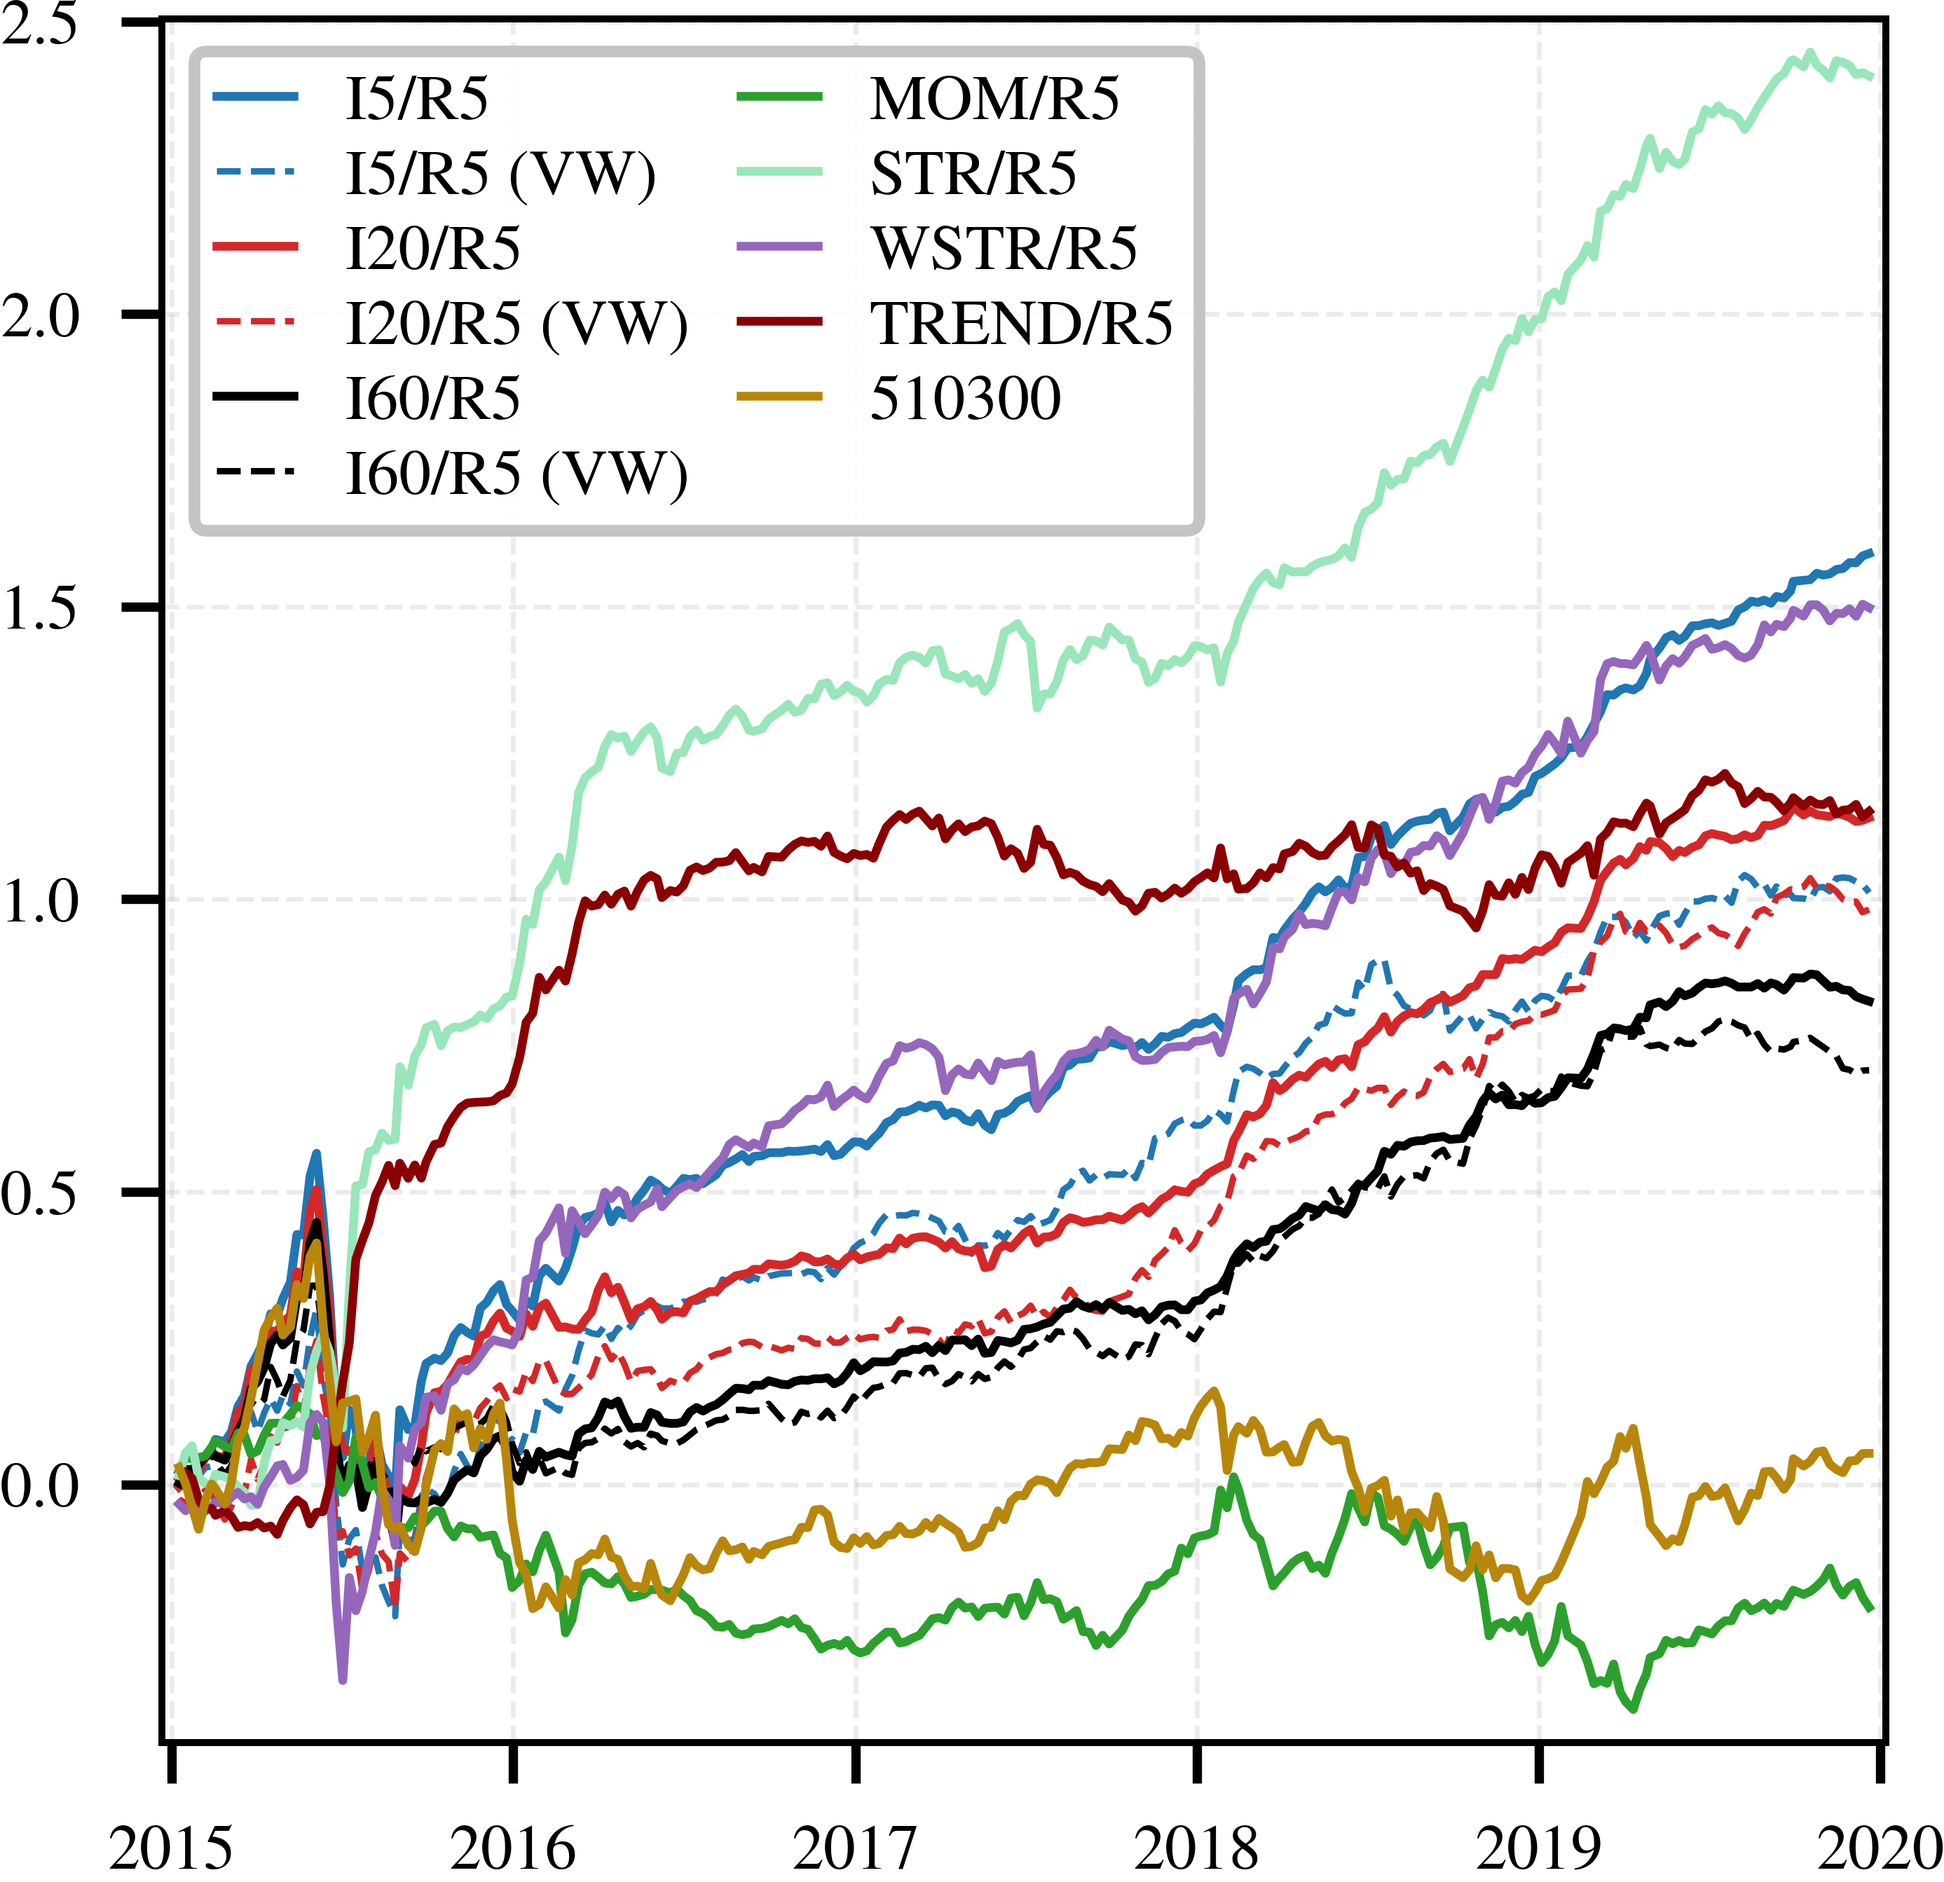
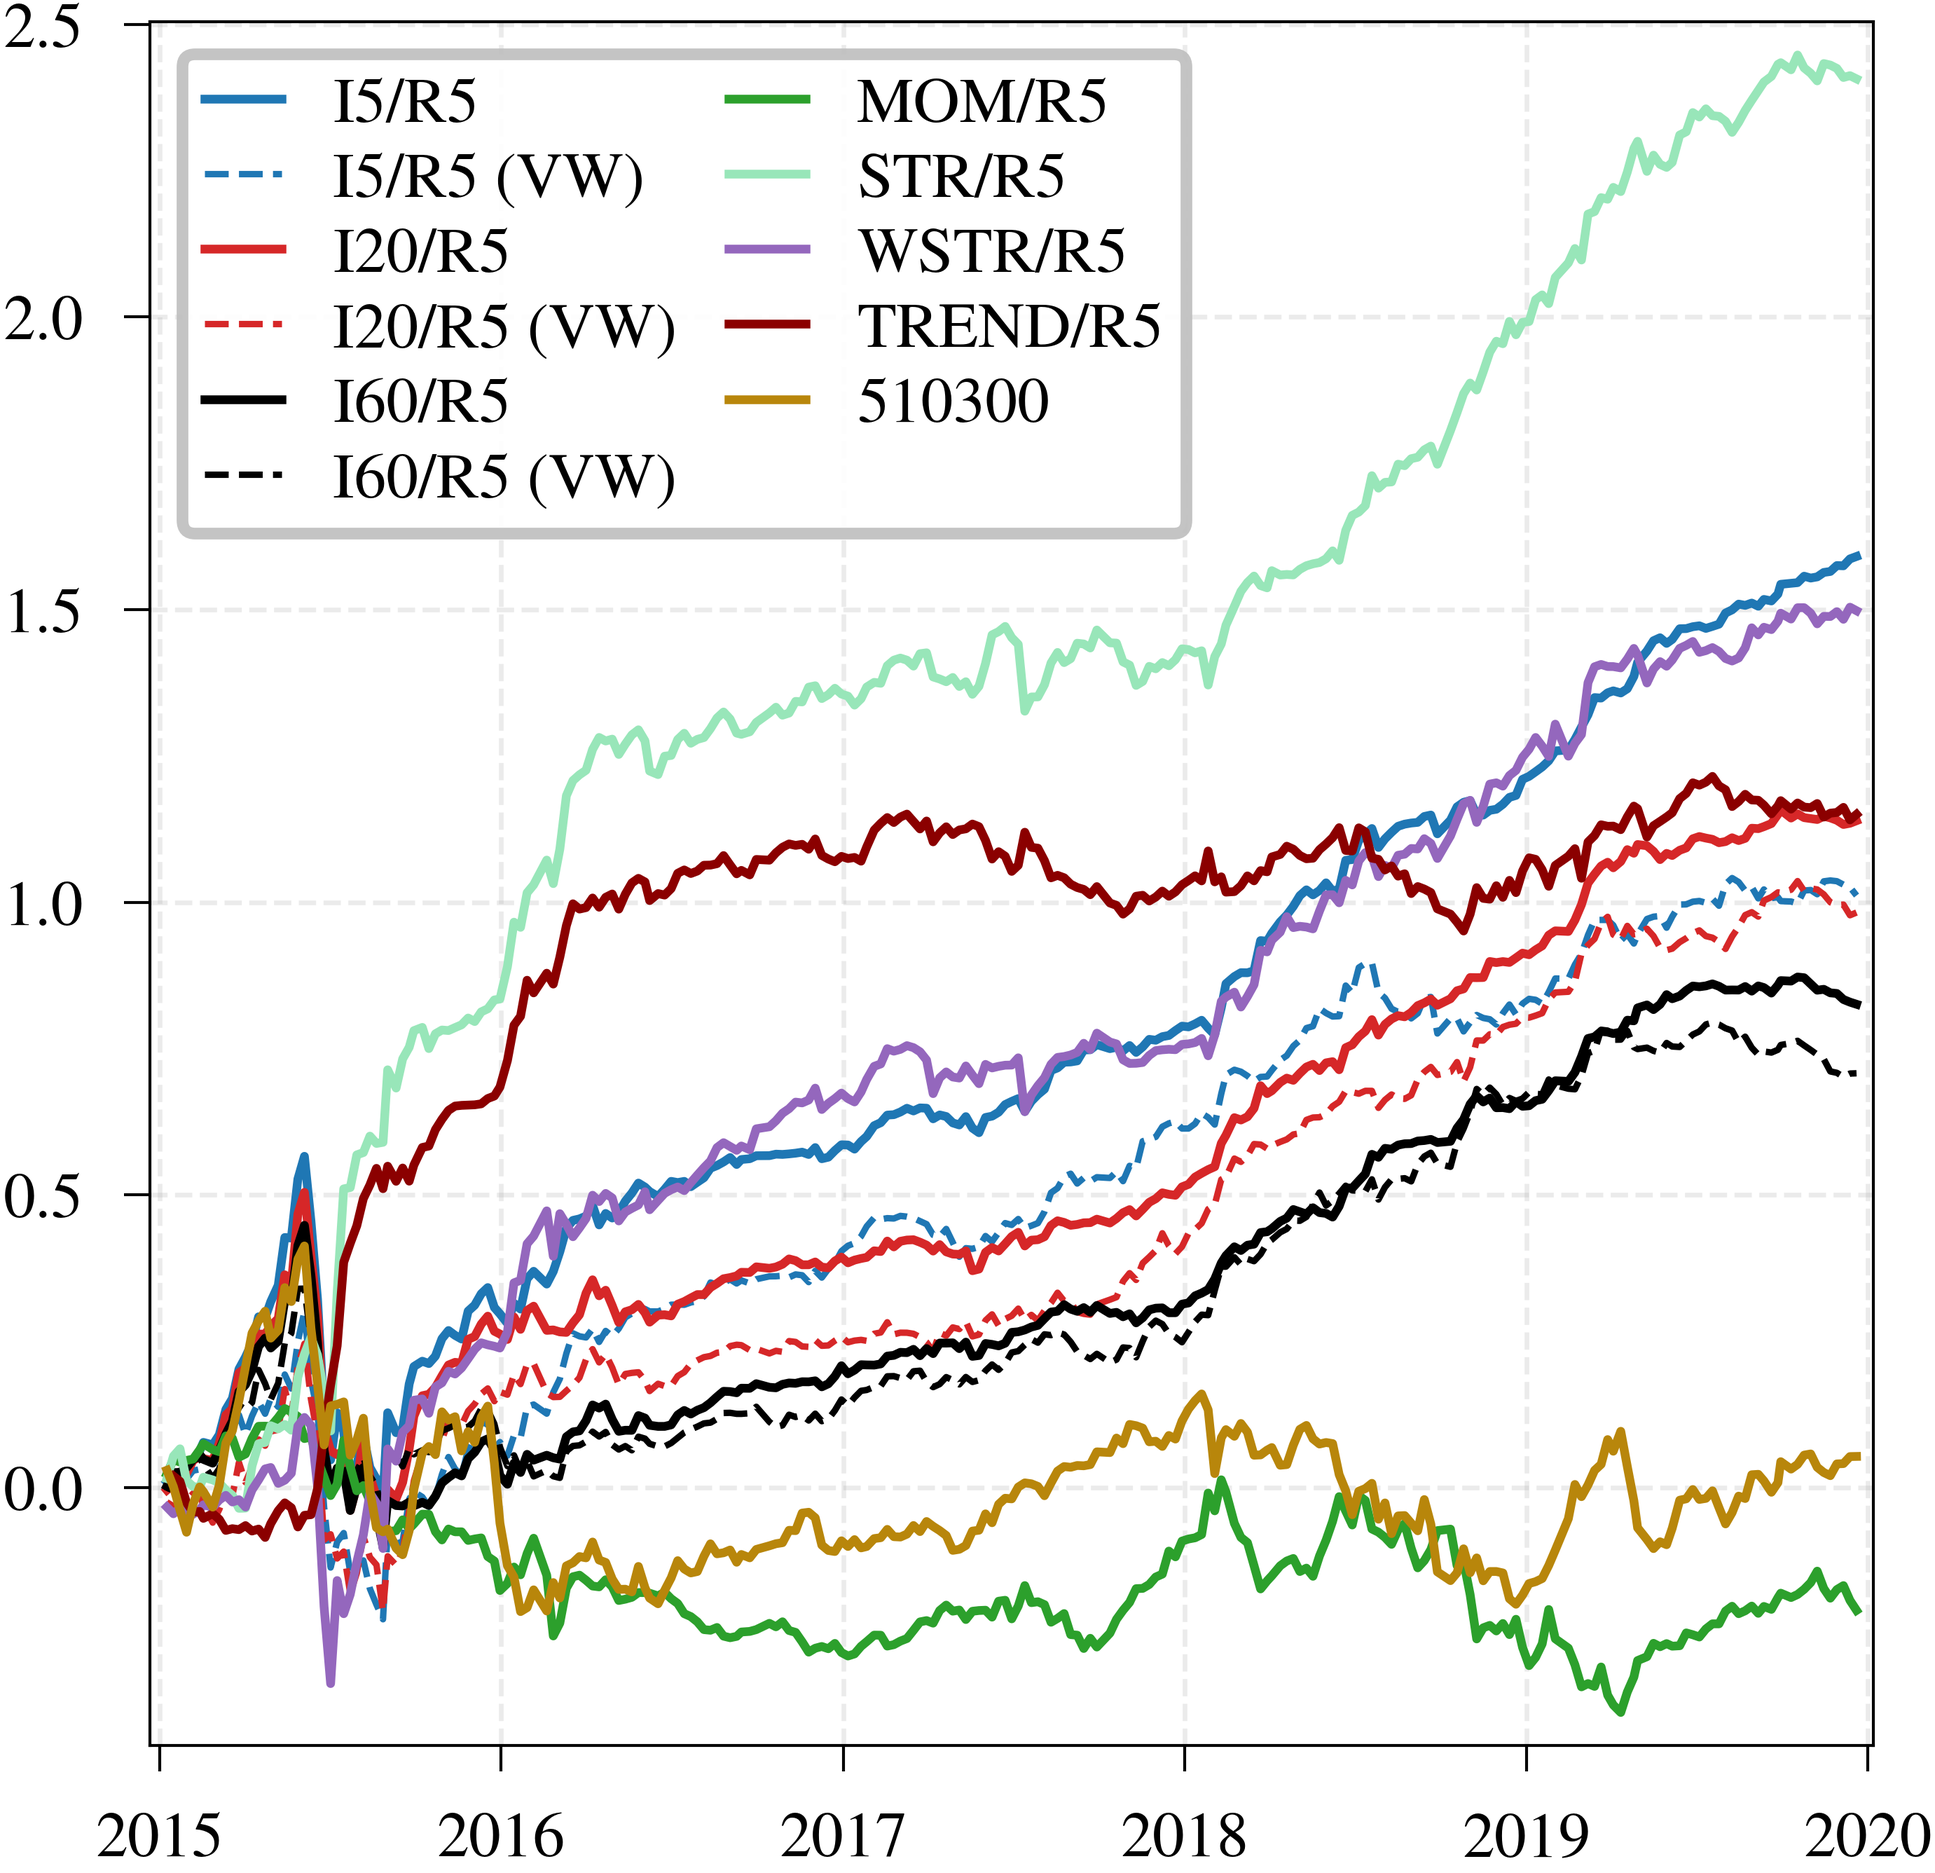
refactor: enhance cumulative returns plotting script by adjusting spine linewidth and tick parameters for improved aesthetics; update save padding for better output layout

diff --git a/outputs/analysis_results/02_figure5_cumulative_returns/02_figure5_cumulative.py b/outputs/analysis_results/02_figure5_cumulative_returns/02_figure5_cumulative.py
@@ -56,6 +56,9 @@ TOP_IN = 0.03
 FIG_W = PLOT_IN + LEFT_IN + RIGHT_IN
 FIG_H = PLOT_IN + BOTTOM_IN + TOP_IN
 FIG_DPI = 1200
+# 0.25 pt ≈ the previously visible top-edge stroke (~4 px at 1200 dpi).
+SPINE_LW = 0.25
+SAVE_PAD_INCHES = SPINE_LW / 72.0 / 2.0 + 0.002
 FONT_FAMILY = "Times New Roman"
 NIMBUS_ROMAN_PATH = "/usr/share/fonts/opentype/urw-base35/NimbusRoman-Regular.otf"
 
@@ -277,7 +280,7 @@ def plot_cumulative(
         )
 
     tick_size = 5.5
-    ax.tick_params(axis="both", labelsize=tick_size)
+    ax.tick_params(axis="both", labelsize=tick_size, width=SPINE_LW, length=2.2)
     legend = ax.legend(
         loc="upper left",
         prop=plot_font(tick_size),
@@ -295,8 +298,8 @@ def plot_cumulative(
     ax.grid(True, alpha=0.25, linestyle="--", linewidth=0.4)
     for side in ("left", "right", "top", "bottom"):
         ax.spines[side].set_visible(True)
-        ax.spines[side].set_linewidth(0.6)
-        ax.spines[side].set_clip_on(False)
+        ax.spines[side].set_linewidth(SPINE_LW)
+        ax.spines[side].set_clip_on(True)
 
     xs = [t for s in curves.values() for t in s.index]
     xmin, xmax = min(xs), max(xs)
@@ -309,7 +312,7 @@ def plot_cumulative(
         out_path,
         dpi=FIG_DPI,
         bbox_inches="tight",
-        pad_inches=0,
+        pad_inches=SAVE_PAD_INCHES,
         facecolor="white",
         edgecolor="none",
     )
